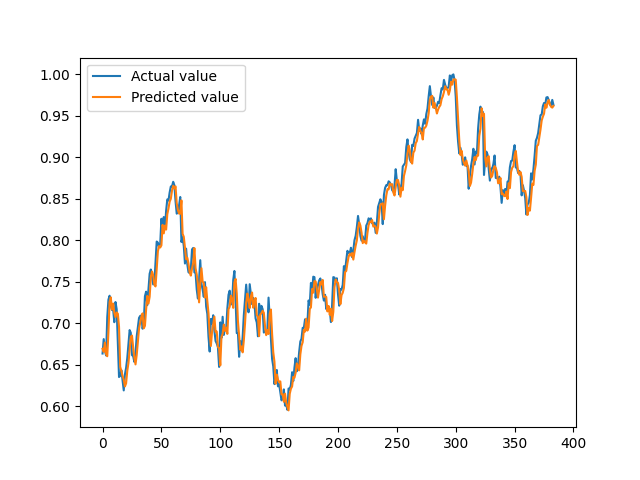
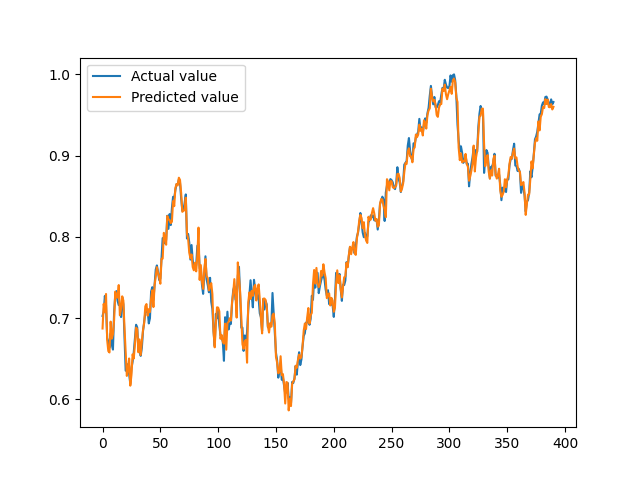
add lstm exist modal

diff --git a/templates/index.html b/templates/index.html
@@ -533,14 +533,22 @@
                     var configOptionsSpan = document.querySelector('.adjust-parameter');
                     var checkboxUseParam = document.getElementById('checkboxparam');
                     var or_predict = document.getElementById('or_predict');
-                    if (this.value !== '') {
+                    var dataset = globalName;
+                    if (dataset == "AMAZON" || dataset == "APPLE" || dataset == "GOOGLE" || dataset == "Weather_WS" || dataset == "weather-HCM") {
+                        if (this.value !== '') {
+                            configOptionsSpan.style.display = 'block';
+                            checkboxUseParam.style.display = 'block';
+                            or_predict.style.display = 'block';
+                        } else {
+                            configOptionsSpan.style.display = 'none';
+                            checkboxUseParam.style.display = 'none';
+                            or_predict.style.display = 'none';
+                        }
+                    }
+                    else {
                         configOptionsSpan.style.display = 'block';
-                        checkboxUseParam.style.display = 'block';
-                        or_predict.style.display = 'block';
-                    } else {
-                        configOptionsSpan.style.display = 'none';
-                        checkboxUseParam.style.display = 'none';
                         or_predict.style.display = 'none';
+                        checkboxUseParam.style.display = 'none';
                     }
                 });
             </script>
@@ -606,6 +614,7 @@
             <script>
                 var globalName = "{{ global_name }}";
             </script>
+            <!-- Add input group -->
             <script>
                 document.getElementById('algorithm').addEventListener('change', function () {
                     var algorithm = this.value;
@@ -619,7 +628,13 @@
 
 
                 function updateModalParameters(dataset, column, algorithm) {
-                    var parameters = algorithmParameters[dataset][column][algorithm];
+                    var parameters;
+                    if (algorithmParameters[dataset] && algorithmParameters[dataset][column]) {
+                        parameters = algorithmParameters[dataset][column][algorithm];
+                    } else {
+                        parameters = defaultParameters[algorithm];  // Use default parameters for the algorithm
+                    }
+
                     var modal = document.getElementById('myModal');
                     var leftContainer = modal.querySelector('.container-choosepara .item.left');
                     var rightContainer = modal.querySelector('.container-choosepara .item.right');
@@ -801,6 +816,8 @@
                 style=" display:None; color: black; text-align: center; width: 100%; font-size: 13px; user-select: none; margin-top: 10px; margin-bottom: 10px">
             </div>
             <p id="mseDisplay" style="display: none; margin-left: 43px;"></p>
+            <p id="rmseDisplay" style="display: none; margin-left: 43px;"></p>
+            <p id="maeDisplay" style="display: none; margin-left: 43px;"></p>
 
             <p id="hd_layer" style="display: none; margin-left: 43px;"></p>
             <p id="hd_neuron" style="display: none; margin-left: 43px;"></p>
@@ -827,6 +844,8 @@
                 // Show the prediction status and update its text
                 var predictionStatus = document.getElementById('predictionStatus');
                 var mseDisplay = document.getElementById('mseDisplay');
+                var rmseDisplay = document.getElementById('rmseDisplay');
+                var maeDisplay = document.getElementById('maeDisplay');
                 var hd_layerdisplay = document.getElementById('hd_layer');
                 var hd_neurondisplay = document.getElementById('hd_neuron');
                 var data_window_size = document.getElementById('data window size');
@@ -851,6 +870,12 @@
 
                         mseDisplay.style.display = 'block';
                         mseDisplay.textContent = 'MSE: ' + data.testScore_mse;
+
+                        rmseDisplay.style.display = 'block';
+                        rmseDisplay.textContent = 'RMSE: ' + data.testScore_rmse;
+
+                        maeDisplay.style.display = 'block';
+                        maeDisplay.textContent = 'MAE: ' + data.testScore_mae;
 
                         hd_layerdisplay.style.display = 'block';
                         hd_layerdisplay.textContent = 'Hidden Layer: ' + data.hidden_layers;

diff --git a/static/js/parameters.js b/static/js/parameters.js
@@ -1,9 +1,17 @@
-var varnnParameters = ['Parameter 1', 'Parameter 2', 'Parameter 3'];
+
+var varnnParameters = ['Epoch', 'Batch size', 'p', 'Hidden Neurons'];;
 var ffnnParameters = ['Epoch', 'Batch size', 'Data window size', 'Hidden Neurons', 'Hidden Layers'];
 var lstmParameters = ['Epoch', 'Batch size', 'Data window size', 'Hidden Neurons', 'Hidden Layers'];
-var varParameters = ['Parameter A12', 'Parameter B23', 'Parameter A11', 'Parameter B22'];
-var arimaParameters = ['order of autoregression(p)', 'degree of differencing(d)', 'order of moving average(q)'];
+var varParameters = ['Max lag order(p)',];
+var arimaParameters = ['Autoregressive order (p)', 'Differencing order (d)', 'Moving average order (q)'];
 
+var defaultParameters = {
+    'algorithm-varnn': varnnParameters,
+    'algorithm-ffnn': ffnnParameters,
+    'algorithm-lstm': lstmParameters,
+    'algorithm-var': varParameters,
+    'algorithm-arima': arimaParameters,
+};
 
 function createAlgorithmParameters() {
     return {

diff --git a/app.py b/app.py
@@ -13,7 +13,7 @@ from sklearn.preprocessing import MinMaxScaler
 import tensorflow as tf
 from werkzeug.utils import secure_filename
 import os
-from sklearn.metrics import mean_squared_error
+from sklearn.metrics import mean_squared_error,mean_absolute_error
 
 
 app = Flask(__name__) # create an app instance
@@ -103,6 +103,35 @@ def get_param_ffnn(default_split_ratio,default_hidden_neurons,default_seq_size,d
    hidden_layers = int(global_parameters.get('Hidden_Layers', default_hidden_layers))
    return split_ratio, hidden_neurons,seq_size,epochs,batch_sizes,hidden_layers
 
+def get_param_ffnn_datasetNew():
+   split_ratio_get = global_parameters.get('splitdata')
+   if split_ratio_get == 'split73':
+       split_ratio = 0.7
+   else:
+       split_ratio = 0.8
+   hidden_neurons = int(global_parameters.get('Hidden_Neurons'))
+   seq_size = int(global_parameters.get('Data_window_size'))
+   epochs = int(global_parameters.get('Epoch'))
+   batch_sizes = int(global_parameters.get('Batch_size'))
+   hidden_layers = int(global_parameters.get('Hidden_Layers'))
+   return split_ratio, hidden_neurons,seq_size,epochs,batch_sizes,hidden_layers
+
+
+def LSTM_exist(train,test,outputs,seq,hidden_neural,weights_file):
+    seq_size = seq
+    trainX_LSTM, trainY_LSTM = to_sequences_multivariate_lstm(train,seq_size)
+    model_LSTM = Sequential()
+    model_LSTM.add(LSTM(hidden_neural, return_sequences=False, input_shape= (trainX_LSTM.shape[1], 1)))
+    model_LSTM.add(Dense(outputs))
+    model_LSTM.compile(loss='mean_squared_error', optimizer='adam', metrics = ['acc'])
+    model_LSTM.load_weights(weights_file)
+    return model_LSTM
+
+def calculate_metrics_Standardization(test, predictions):
+    mse = mean_squared_error(test, predictions)
+    rmse = np.sqrt(mse)
+    mae = mean_absolute_error(test, predictions)
+    return mse, rmse, mae
 
 @app.route('/')
 def index():
@@ -197,6 +226,7 @@ def Predict():
     test = []
     testScore_mse = 0
     model_path_ffnn = 'Model/Apple/FFNN/'
+    model_path_lstm = 'Model/Apple/LSTM/'
     algorithm = request.form.get('algorithm')
     column_prediction = request.form.get('column_prediction')
     useExistingModel = request.form.get('useExistingModel') 
@@ -206,15 +236,15 @@ def Predict():
         if global_name == 'GOOGLE':
             train, test = split_data_default(scale_data(global_data[column_prediction].values.reshape(-1,1)))               
         elif global_name == 'APPLE':
+            default_hidden_layers = 1
+            default_split_ratio = 0.8
             train, test = split_data_default(scale_data(global_data[column_prediction].values.reshape(-1,1)))
             if column_prediction == 'Open': 
                 # Default parameters
-                default_hidden_layers = 1
                 default_hidden_neurons = 16
                 default_seq_size = 18
                 default_epochs = 400
-                default_batch_size = 32
-                default_split_ratio = 0.8
+                default_batch_size = 32                
                 # Get parameters
                 split_ratio,hidden_neurons,seq_size,epochs,batch_sizes,hidden_layers = get_param_ffnn(default_split_ratio,default_hidden_neurons,default_seq_size,default_epochs,default_batch_size,default_hidden_layers)             
                 # Check if the user wants to use an existing model
@@ -223,39 +253,68 @@ def Predict():
                     model = model_ffnn_exist(default_seq_size, default_hidden_neurons, model_path)
                     x,y = to_sequences(test,1,18)
                     test_pred = model.predict(x)
-                    testScore_mse = mean_squared_error(y, test_pred)
-                    train_length = train.shape[0]
-                    test_length = len(test)
+                    testScore_mse, testScore_rmse, testScore_mae = calculate_metrics_Standardization(y, test_pred)
                     plt.clf() 
                     plt.plot(y,label="Actual value")
                     plt.plot(test_pred,label="Predicted value")
                     plt.legend()
                     plt.savefig('static/images/plot_predict.png')
-                    return jsonify(algorithm=algorithm, column_prediction=column_prediction, train_length=train_length, test_length=test_length, testScore_mse=testScore_mse, hidden_neurons=default_hidden_neurons, seq_size=default_seq_size, hidden_layers=default_hidden_layers, epochs=default_epochs, batch_sizes=default_batch_size, split_ratio=default_split_ratio)                                      
+                    return jsonify(algorithm=algorithm, column_prediction=column_prediction, testScore_mse=testScore_mse,testScore_rmse = testScore_rmse,testScore_mae = testScore_mae, hidden_neurons=default_hidden_neurons, seq_size=default_seq_size, hidden_layers=default_hidden_layers, epochs=default_epochs, batch_sizes=default_batch_size, split_ratio=default_split_ratio)                                      
                 else: # Train a new model
-                    if split_ratio == 0.7:
-                        train_new, test_new = split_data_new(scale_data(global_data[column_prediction].values.reshape(-1,1)),split_ratio)
-                        model = model_ffnn_new(train_new, test_new,hidden_layers, seq_size, hidden_neurons, epochs, batch_sizes)
-                        x,y = to_sequences(test_new,1,seq_size)      
-                    else: 
-                        model = model_ffnn_new(train, test,hidden_layers, seq_size, hidden_neurons, epochs, batch_sizes)
-                        x,y = to_sequences(test,1,seq_size) 
+                    train_new, test_new = split_data_new(scale_data(global_data[column_prediction].values.reshape(-1,1)),split_ratio)
+                    model = model_ffnn_new(train_new, test_new,hidden_layers, seq_size, hidden_neurons, epochs, batch_sizes)
+                    x,y = to_sequences(test_new,1,seq_size)      
                     test_pred = model.predict(x)
-                    testScore_mse = mean_squared_error(y, test_pred)
+                    testScore_mse, testScore_rmse, testScore_mae = calculate_metrics_Standardization(y, test_pred)
                     plt.clf() 
                     plt.plot(y,label="Actual value")
                     plt.plot(test_pred,label="Predicted value")
                     plt.legend()
                     plt.savefig('static/images/plot_predict.png')
-                    return jsonify(algorithm=algorithm, column_prediction=column_prediction, testScore_mse=testScore_mse, hidden_neurons=hidden_neurons, seq_size=seq_size, hidden_layers=hidden_layers, epochs=epochs, batch_sizes=batch_sizes, split_ratio=split_ratio)  
+                    return jsonify(algorithm=algorithm, column_prediction=column_prediction, testScore_mse=testScore_mse,testScore_rmse = testScore_rmse,testScore_mae = testScore_mae, hidden_neurons=hidden_neurons, seq_size=seq_size, hidden_layers=hidden_layers, epochs=epochs, batch_sizes=batch_sizes, split_ratio=split_ratio)  
         elif global_name == 'AMAZON':
             train, test = split_data_default(scale_data(global_data[column_prediction].values.reshape(-1,1)))
         elif global_name == 'Weather_WS':
             train, test = split_data_default(scale_data(global_data[column_prediction].values.reshape(-1,1)))    
         elif global_name == 'weather-HCM':
-            train, test = split_data_default(scale_data(global_data[column_prediction].values.reshape(-1,1)))    
+            train, test = split_data_default(scale_data(global_data[column_prediction].values.reshape(-1,1)))     
+        else: # For new dataset
+            split_ratio_new,hidden_neurons_new,seq_size_new,epochs_new,batch_sizes_new,hidden_layers_new = get_param_ffnn_datasetNew()            
+            train_datanew, test_datanew = split_data_new(scale_data(global_data[column_prediction].values.reshape(-1,1)),split_ratio_new)
+            model = model_ffnn_new(train_datanew, test_datanew,hidden_layers_new, seq_size_new, hidden_neurons_new, epochs_new, batch_sizes_new)
+            x,y = to_sequences(test_datanew,1,seq_size_new)      
+            test_pred = model.predict(x)
+            testScore_mse, testScore_rmse, testScore_mae = calculate_metrics_Standardization(y, test_pred)
+            plt.clf() 
+            plt.plot(y,label="Actual value")
+            plt.plot(test_pred,label="Predicted value")
+            plt.legend()
+            plt.savefig('static/images/plot_predict.png')
+            return jsonify(algorithm=algorithm, column_prediction=column_prediction, testScore_mse=testScore_mse,testScore_rmse=testScore_rmse,testScore_mae=testScore_mae,hidden_neurons=hidden_neurons_new, seq_size=seq_size_new, hidden_layers=hidden_layers_new, epochs=epochs_new, batch_sizes=batch_sizes_new, split_ratio=split_ratio_new)     
+    elif algorithm == 'algorithm-lstm':
+        array_stock = list(["Open","High","Low","Close","Adj Close"])
+        if global_name == 'APPLE':
+            seq_size_lstm = 12
+            hidden_neurons_lstm = 5
+            output_lstm = 5
+            model_path_lstm = model_path_lstm + 'LSTM_APPLE.h5'
+            train, test = split_data_default(scale_data(global_data[array_stock]))              
+            model_lstm = LSTM_exist(train, test, output_lstm, seq_size_lstm, hidden_neurons_lstm, model_path_lstm)
+            testX_LSTM, testY_LSTM = to_sequences_multivariate_lstm(test,seq_size_lstm)           
+            result_LSTM = model_lstm.predict(testX_LSTM) 
+            if column_prediction == 'Open':
+                if useExistingModel == 'on':                  
+                    predict_LSTM_Open = result_LSTM[:,array_stock.index('Open')]
+                    textY_LSTM_Open = testY_LSTM[:,array_stock.index('Open')]  
+                    testScore_mse, testScore_rmse, testScore_mae = calculate_metrics_Standardization(textY_LSTM_Open, predict_LSTM_Open)
+                    plt.clf() 
+                    plt.plot(textY_LSTM_Open,label="Actual value")
+                    plt.plot(predict_LSTM_Open,label="Predicted value")
+                    plt.legend()
+                    plt.savefig('static/images/plot_predict.png')
+                    return jsonify(algorithm=algorithm, column_prediction=column_prediction, testScore_mse=testScore_mse,testScore_rmse=testScore_rmse,testScore_mae=testScore_mae)                 
         else:
-            train, test = split_data_default(scale_data(global_data[column_prediction].values.reshape(-1,1)))       
+            return render_template('index.html', message="Please choose a model"), 400
     else:
         return render_template('index.html', message="Please choose a model"), 400
 
